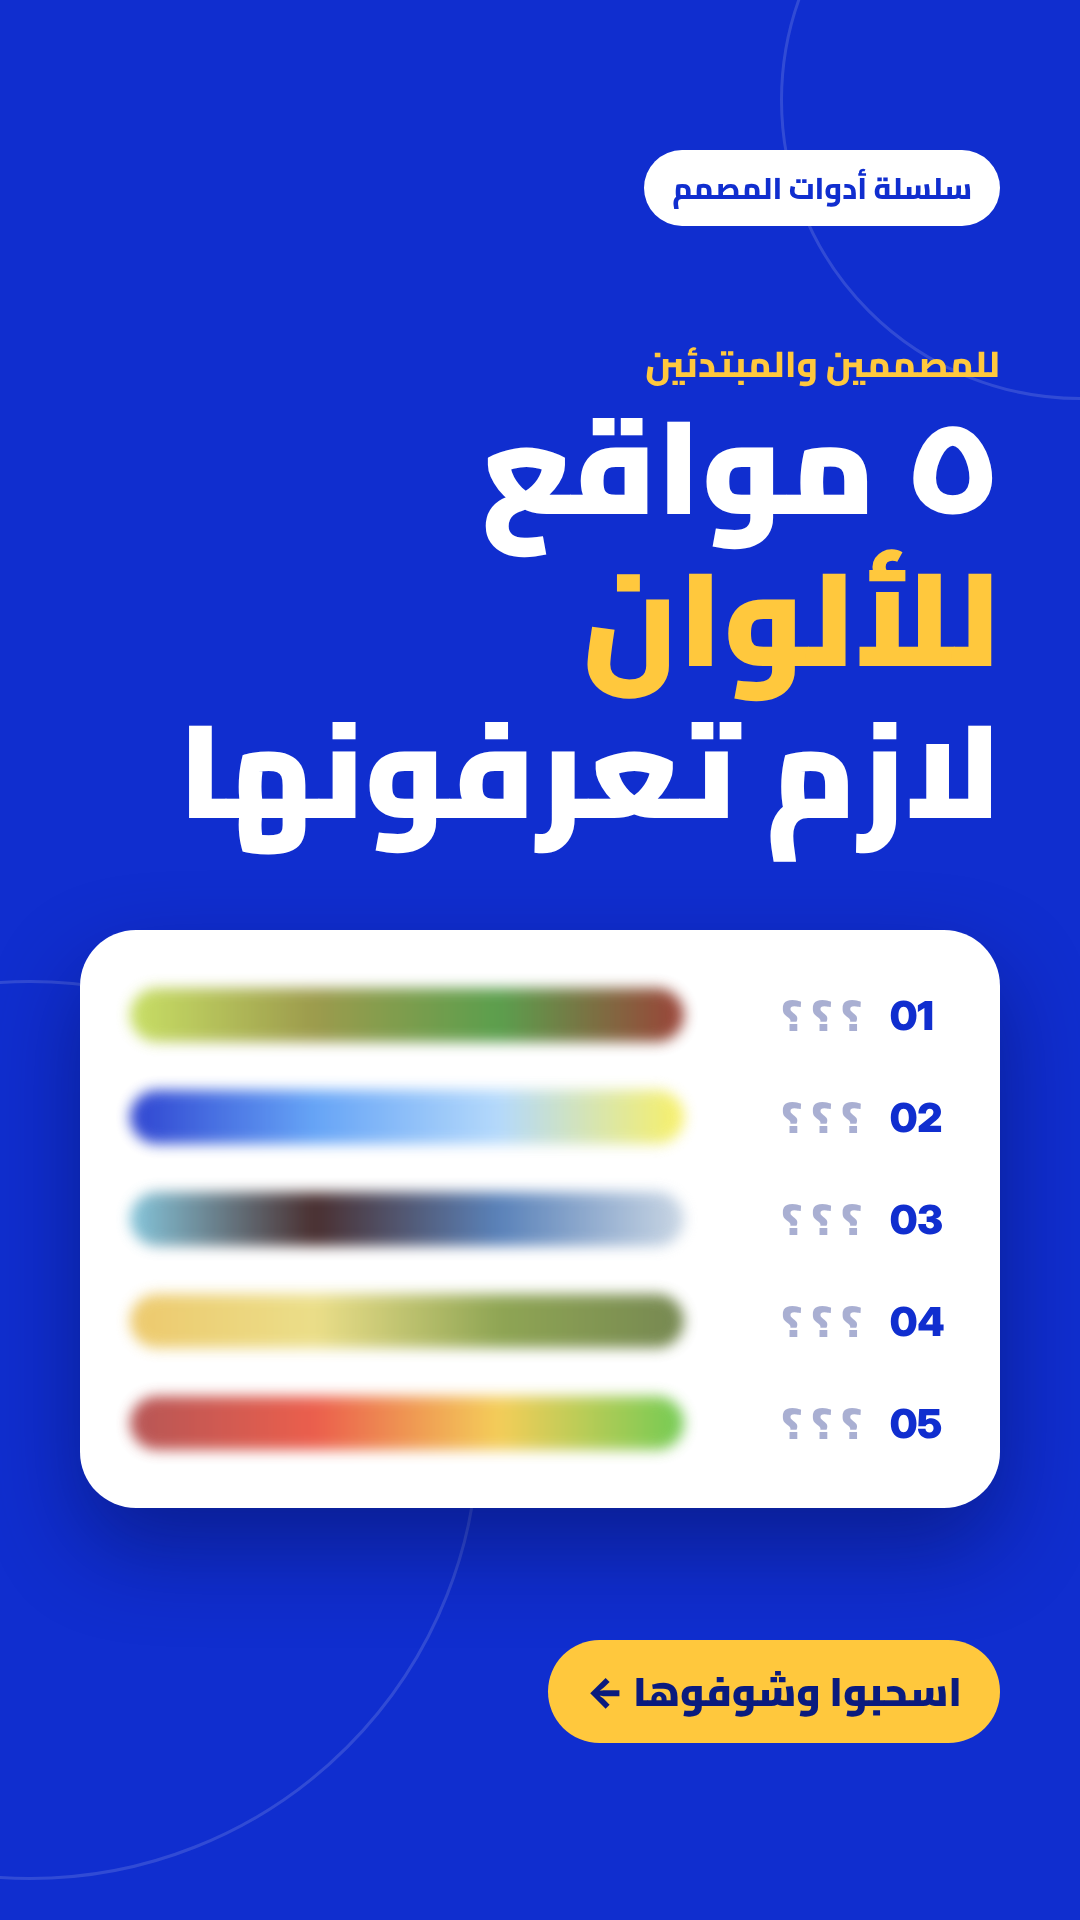
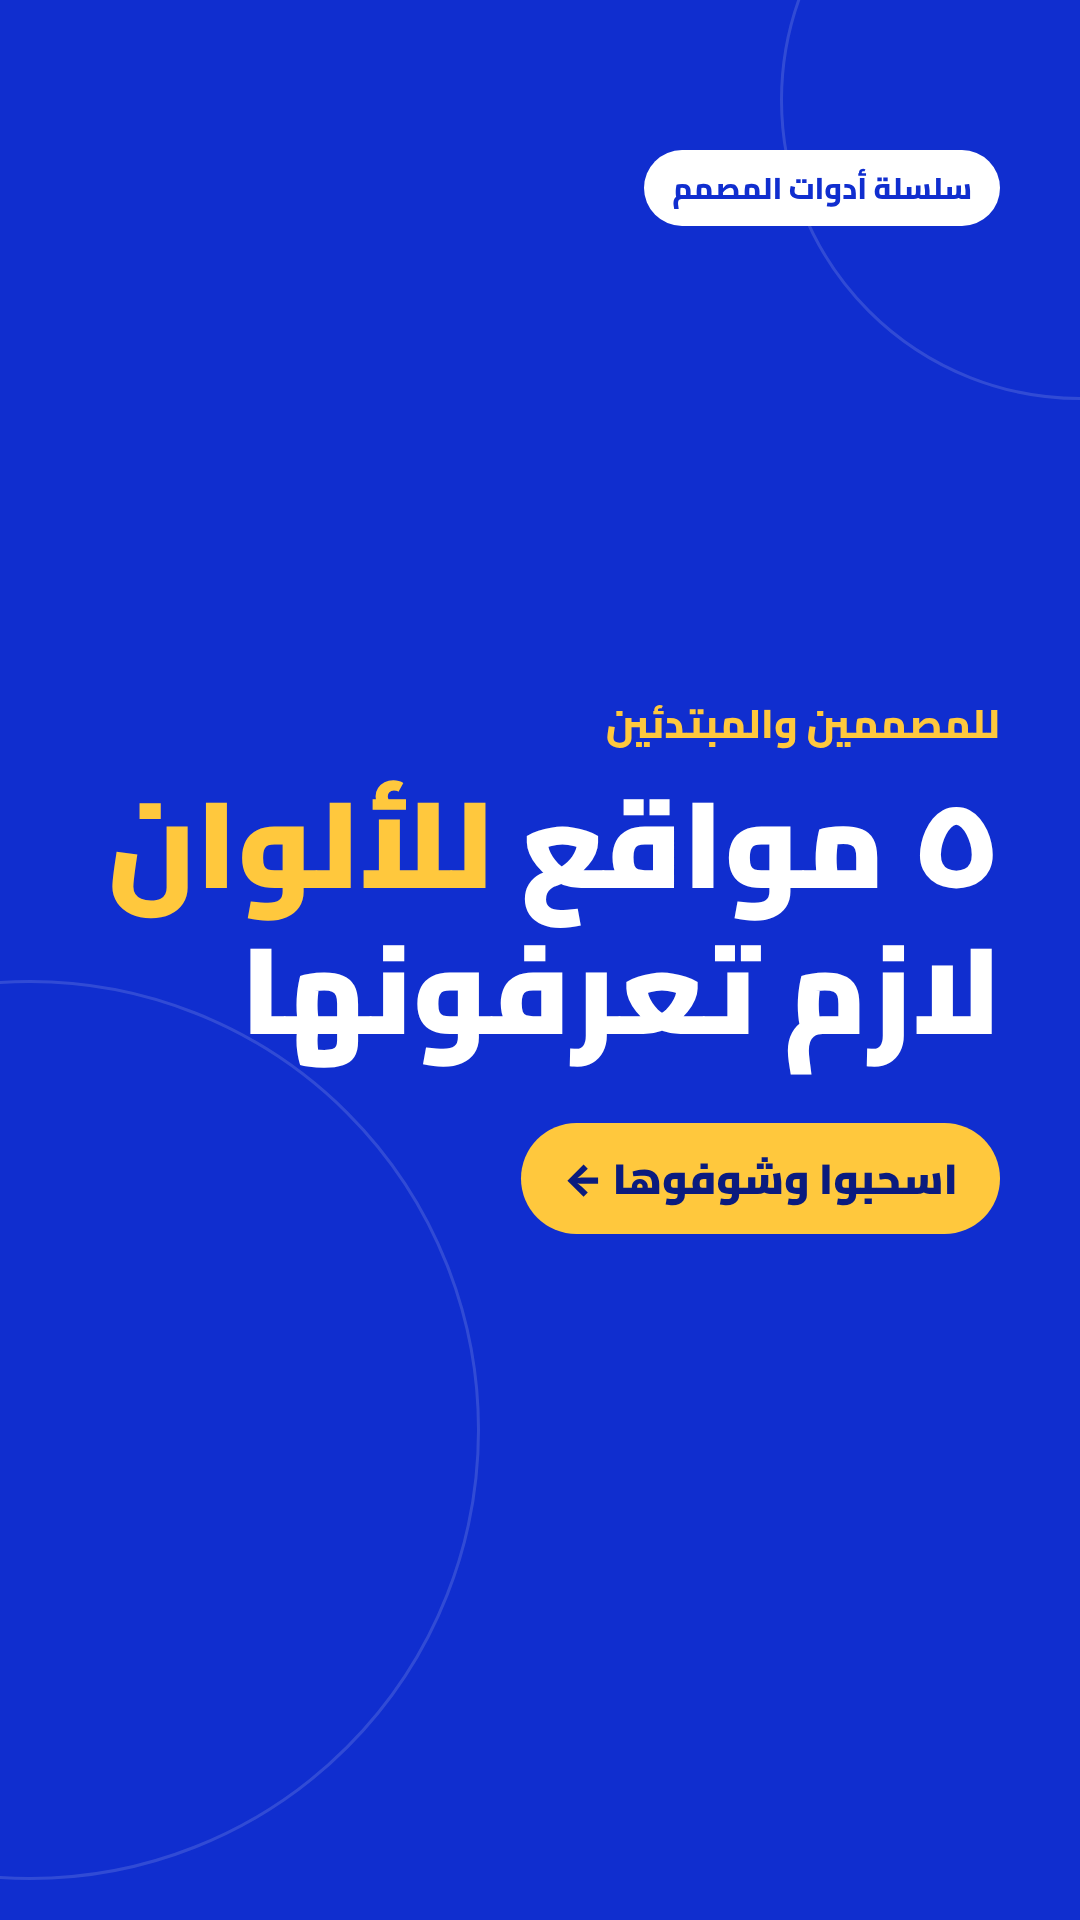
Brand cover: remove the teaser card, enlarge and center the headline
Claude-Session: https://claude.ai/code/session_01HmuEa21xmTYJVbHUyErKJW

diff --git a/tiktok-color-tools/slides-brand/00-cover.html b/tiktok-color-tools/slides-brand/00-cover.html
@@ -10,22 +10,17 @@ body { background:#102ECF; color:#FFFFFF; }
 .tag { position:absolute; top:150px; right:80px; font-size:30px; font-weight:800; padding:10px 28px; border-radius:999px; background:#FFFFFF; color:#102ECF; }
 .count { position:absolute; top:158px; left:84px; font-size:34px; font-weight:800; color:rgba(255,255,255,.75); }
 
-.kick { position:absolute; top:330px; right:80px; font-size:36px; font-weight:800; color:#FFC83D; }
-h1 { position:absolute; top:390px; right:80px; left:80px; font-size:132px; font-weight:900; line-height:1.15; }
+.wrap { position:absolute; top:0; bottom:0; right:80px; left:80px; display:flex; flex-direction:column; justify-content:center; align-items:flex-start; }
+.kick { font-size:40px; font-weight:800; color:#FFC83D; }
+h1 { font-size:122px; font-weight:900; line-height:1.2; margin-top:10px; white-space:nowrap; }
 h1 span { color:#FFC83D; }
-.card { position:absolute; top:930px; left:80px; right:80px; background:#FFFFFF; color:#0A1B7E; border-radius:56px; padding:44px 50px;
-  box-shadow:0 40px 90px rgba(5,12,70,.45); }
-ul { list-style:none; display:flex; flex-direction:column; gap:20px; }
-li { display:flex; align-items:center; gap:28px; }
-.n { font-size:40px; font-weight:900; color:#102ECF; width:60px; }
-.q { font-size:44px; font-weight:900; color:rgba(10,27,126,.35); width:150px; }
-.blur { flex:1; height:54px; border-radius:999px; filter:blur(7px); opacity:.85; }
-.swipe { position:absolute; top:1640px; right:80px; font-size:40px; font-weight:900; background:#FFC83D; color:#0A1B7E; padding:14px 38px; border-radius:999px; }
+.swipe { margin-top:60px; font-size:42px; font-weight:900; background:#FFC83D; color:#0A1B7E; padding:16px 42px; border-radius:999px; }
 </style></head><body>
 <div class="ring" style="width:900px;height:900px;left:-420px;top:980px"></div><div class="ring" style="width:600px;height:600px;right:-300px;top:-200px"></div>
 <span class="tag">سلسلة أدوات المصمم</span>
+<div class="wrap">
 <div class="kick">للمصممين والمبتدئين</div>
 <h1>٥ مواقع <span>للألوان</span><br>لازم تعرفونها</h1>
-<div class="card"><ul><li><span class="n latin">01</span><span class="q">؟ ؟ ؟</span><span class="blur" style="background:linear-gradient(90deg,#BFDA4B,#8C8A2E,#3F8F2F,#8A2216)"></span></li><li><span class="n latin">02</span><span class="q">؟ ؟ ؟</span><span class="blur" style="background:linear-gradient(90deg,#0B24C9,#4C95F5,#A8D3FB,#F7EE4E)"></span></li><li><span class="n latin">03</span><span class="q">؟ ؟ ؟</span><span class="blur" style="background:linear-gradient(90deg,#70BCD5,#2B0C0D,#3E6DAE,#C1D0E0)"></span></li><li><span class="n latin">04</span><span class="q">؟ ؟ ؟</span><span class="blur" style="background:linear-gradient(90deg,#EAC054,#E8D975,#7C9637,#5F7434)"></span></li><li><span class="n latin">05</span><span class="q">؟ ؟ ؟</span><span class="blur" style="background:linear-gradient(90deg,#AA3939,#E8432E,#F2C53D,#5BC236)"></span></li></ul></div>
 <div class="swipe">اسحبوا وشوفوها ←</div>
+</div>
 </body></html>

diff --git a/tiktok-color-tools/build_brand.py b/tiktok-color-tools/build_brand.py
@@ -69,29 +69,20 @@ def tool_html(t, i, total):
 
 
 def cover_html():
-    rows = "".join(
-        f'<li><span class="n latin">0{k+1}</span><span class="q">؟ ؟ ؟</span>'
-        f'<span class="blur" style="background:linear-gradient(90deg,{",".join(t["swatches"][:4])})"></span></li>'
-        for k, t in enumerate(TOOLS))
     return f"""<!doctype html><html lang="ar"><head><meta charset="utf-8"><title>Cover</title><style>{CSS}
-.kick {{ position:absolute; top:330px; right:80px; font-size:36px; font-weight:800; color:{SUN}; }}
-h1 {{ position:absolute; top:390px; right:80px; left:80px; font-size:132px; font-weight:900; line-height:1.15; }}
+.wrap {{ position:absolute; top:0; bottom:0; right:80px; left:80px; display:flex; flex-direction:column; justify-content:center; align-items:flex-start; }}
+.kick {{ font-size:40px; font-weight:800; color:{SUN}; }}
+h1 {{ font-size:122px; font-weight:900; line-height:1.2; margin-top:10px; white-space:nowrap; }}
 h1 span {{ color:{SUN}; }}
-.card {{ position:absolute; top:930px; left:80px; right:80px; background:{WHITE}; color:{NAVY}; border-radius:56px; padding:44px 50px;
-  box-shadow:0 40px 90px rgba(5,12,70,.45); }}
-ul {{ list-style:none; display:flex; flex-direction:column; gap:20px; }}
-li {{ display:flex; align-items:center; gap:28px; }}
-.n {{ font-size:40px; font-weight:900; color:{BLUE}; width:60px; }}
-.q {{ font-size:44px; font-weight:900; color:rgba(10,27,126,.35); width:150px; }}
-.blur {{ flex:1; height:54px; border-radius:999px; filter:blur(7px); opacity:.85; }}
-.swipe {{ position:absolute; top:1640px; right:80px; font-size:40px; font-weight:900; background:{SUN}; color:{NAVY}; padding:14px 38px; border-radius:999px; }}
+.swipe {{ margin-top:60px; font-size:42px; font-weight:900; background:{SUN}; color:{NAVY}; padding:16px 42px; border-radius:999px; }}
 </style></head><body>
 {RINGS}
 <span class="tag">سلسلة أدوات المصمم</span>
+<div class="wrap">
 <div class="kick">للمصممين والمبتدئين</div>
 <h1>٥ مواقع <span>للألوان</span><br>لازم تعرفونها</h1>
-<div class="card"><ul>{rows}</ul></div>
 <div class="swipe">اسحبوا وشوفوها ←</div>
+</div>
 </body></html>"""
 
 
